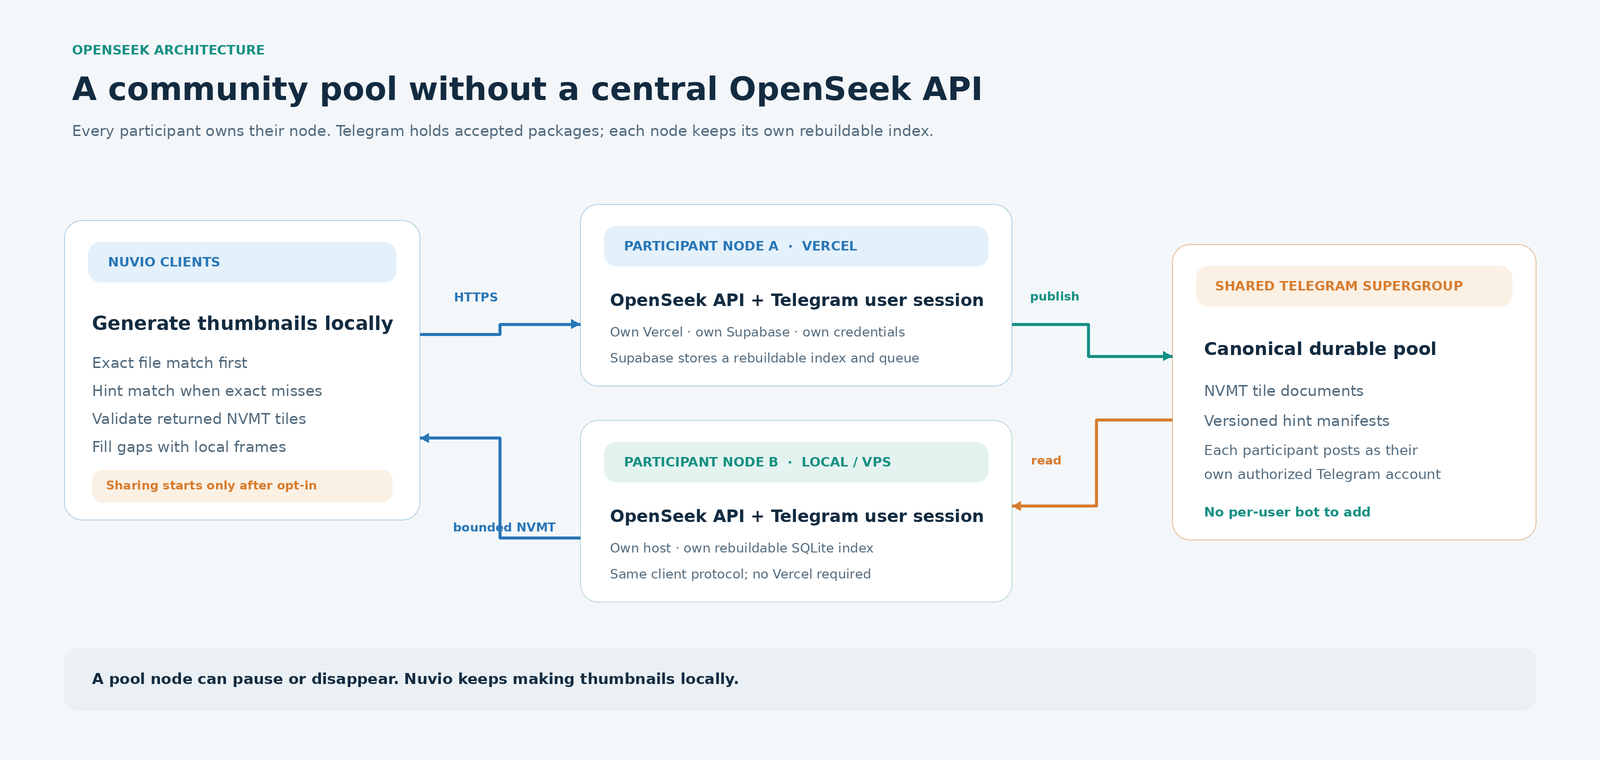
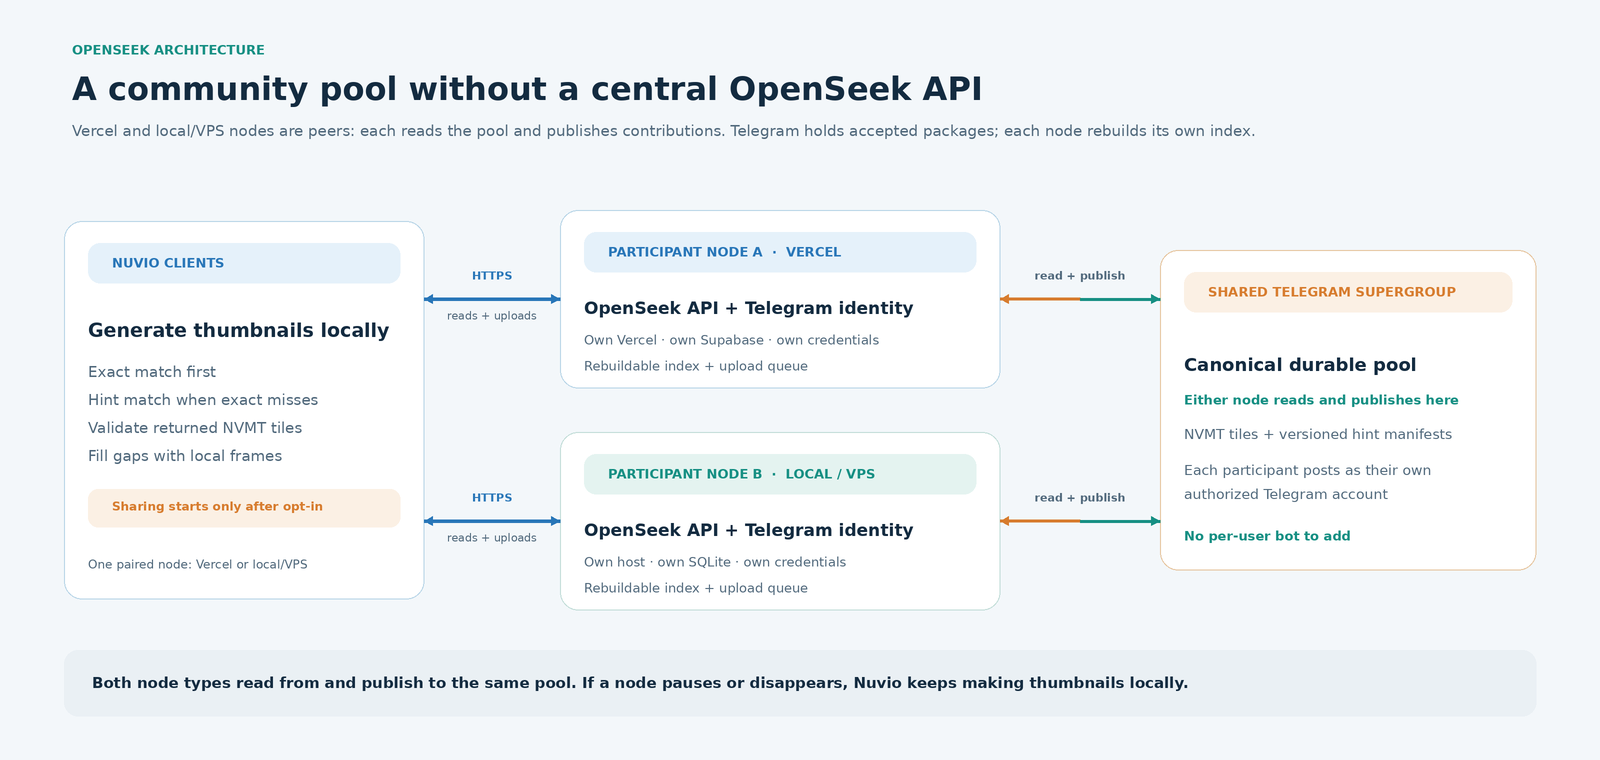
docs: show both pool node types reading and publishing

diff --git a/docs/images/generate_pool_diagrams.py b/docs/images/generate_pool_diagrams.py
@@ -53,6 +53,11 @@ def text(d: ImageDraw.ImageDraw, xy, value: str, size=15, fill=INK, bold=False):
     d.text((xy[0] * S, xy[1] * S), value, font=font(size, bold), fill=fill)
 
 
+def centered_text(d: ImageDraw.ImageDraw, cx, y, value: str, size=12, fill=MUTED, bold=False):
+    f = font(size, bold)
+    d.text((cx * S - d.textlength(value, font=f) / 2, y * S), value, font=f, fill=fill)
+
+
 def line(d: ImageDraw.ImageDraw, points, color=LINE, width=3, arrow=True):
     scaled = [(int(x * S), int(y * S)) for x, y in points]
     d.line(scaled, fill=color, width=width * S, joint="curve")
@@ -75,57 +80,65 @@ def save(image: Image.Image, name: str):
 def architecture():
     image, d = canvas(
         1600, 760, "OpenSeek architecture", "A community pool without a central OpenSeek API",
-        "Every participant owns their node. Telegram holds accepted packages; each node keeps its own rebuildable index.")
+        "Vercel and local/VPS nodes are peers: each reads the pool and publishes contributions. "
+        "Telegram holds accepted packages; each node rebuilds its own index.")
 
     # Nuvio clients
-    rounded(d, (64, 220, 420, 520), fill=WHITE, outline="#B8D5E7")
-    rounded(d, (88, 242, 396, 282), fill=PALE_BLUE, outline=PALE_BLUE, radius=12)
-    text(d, (108, 254), "NUVIO CLIENTS", 13, BLUE, True)
-    text(d, (92, 312), "Generate thumbnails locally", 19, INK, True)
-    text(d, (92, 354), "Exact file match first", 15, MUTED)
-    text(d, (92, 382), "Hint match when exact misses", 15, MUTED)
-    text(d, (92, 410), "Validate returned NVMT tiles", 15, MUTED)
-    text(d, (92, 438), "Fill gaps with local frames", 15, MUTED)
-    rounded(d, (92, 470, 392, 502), fill=PALE_ORANGE, outline=PALE_ORANGE, radius=10)
-    text(d, (106, 478), "Sharing starts only after opt-in", 12, ORANGE, True)
+    rounded(d, (64, 221, 424, 599), fill=WHITE, outline="#B8D5E7")
+    rounded(d, (88, 243, 400, 283), fill=PALE_BLUE, outline=PALE_BLUE, radius=12)
+    text(d, (112, 255), "NUVIO CLIENTS", 13, BLUE, True)
+    text(d, (88, 319), "Generate thumbnails locally", 19, INK, True)
+    text(d, (88, 363), "Exact match first", 15, MUTED)
+    text(d, (88, 391), "Hint match when exact misses", 15, MUTED)
+    text(d, (88, 419), "Validate returned NVMT tiles", 15, MUTED)
+    text(d, (88, 447), "Fill gaps with local frames", 15, MUTED)
+    rounded(d, (88, 489, 400, 527), fill=PALE_ORANGE, outline=PALE_ORANGE, radius=10)
+    text(d, (112, 499), "Sharing starts only after opt-in", 12, ORANGE, True)
+    text(d, (88, 557), "One paired node: Vercel or local/VPS", 12, MUTED)
 
-    # Participant-owned nodes
-    rounded(d, (580, 204, 1012, 386), fill=WHITE, outline="#B8D5E7")
-    rounded(d, (604, 226, 988, 266), fill=PALE_BLUE, outline=PALE_BLUE, radius=12)
-    text(d, (624, 238), "PARTICIPANT NODE A  ·  VERCEL", 13, BLUE, True)
-    text(d, (610, 290), "OpenSeek API + Telegram user session", 17, INK, True)
-    text(d, (610, 324), "Own Vercel · own Supabase · own credentials", 13, MUTED)
-    text(d, (610, 350), "Supabase stores a rebuildable index and queue", 13, MUTED)
+    # Participant-owned nodes: identical capabilities, different index storage
+    rounded(d, (560, 210, 1000, 388), fill=WHITE, outline="#B8D5E7")
+    rounded(d, (584, 232, 976, 272), fill=PALE_BLUE, outline=PALE_BLUE, radius=12)
+    text(d, (608, 244), "PARTICIPANT NODE A  ·  VERCEL", 13, BLUE, True)
+    text(d, (584, 298), "OpenSeek API + Telegram identity", 17, INK, True)
+    text(d, (584, 332), "Own Vercel · own Supabase · own credentials", 13, MUTED)
+    text(d, (584, 358), "Rebuildable index + upload queue", 13, MUTED)
 
-    rounded(d, (580, 420, 1012, 602), fill=WHITE, outline="#C2DDD8")
-    rounded(d, (604, 442, 988, 482), fill=PALE_TEAL, outline=PALE_TEAL, radius=12)
-    text(d, (624, 454), "PARTICIPANT NODE B  ·  LOCAL / VPS", 13, TEAL, True)
-    text(d, (610, 506), "OpenSeek API + Telegram user session", 17, INK, True)
-    text(d, (610, 540), "Own host · own rebuildable SQLite index", 13, MUTED)
-    text(d, (610, 566), "Same client protocol; no Vercel required", 13, MUTED)
+    rounded(d, (560, 432, 1000, 610), fill=WHITE, outline="#C2DDD8")
+    rounded(d, (584, 454, 976, 494), fill=PALE_TEAL, outline=PALE_TEAL, radius=12)
+    text(d, (608, 466), "PARTICIPANT NODE B  ·  LOCAL / VPS", 13, TEAL, True)
+    text(d, (584, 520), "OpenSeek API + Telegram identity", 17, INK, True)
+    text(d, (584, 554), "Own host · own SQLite · own credentials", 13, MUTED)
+    text(d, (584, 580), "Rebuildable index + upload queue", 13, MUTED)
 
     # Telegram pool
-    rounded(d, (1172, 244, 1536, 540), fill=WHITE, outline="#E6C59F")
-    rounded(d, (1196, 266, 1512, 306), fill=PALE_ORANGE, outline=PALE_ORANGE, radius=12)
-    text(d, (1215, 278), "SHARED TELEGRAM SUPERGROUP", 13, ORANGE, True)
-    text(d, (1204, 338), "Canonical durable pool", 18, INK, True)
-    text(d, (1204, 382), "NVMT tile documents", 15, MUTED)
-    text(d, (1204, 412), "Versioned hint manifests", 15, MUTED)
-    text(d, (1204, 442), "Each participant posts as their", 14, MUTED)
-    text(d, (1204, 466), "own authorized Telegram account", 14, MUTED)
-    text(d, (1204, 504), "No per-user bot to add", 13, TEAL, True)
+    rounded(d, (1160, 250, 1536, 570), fill=WHITE, outline="#E6C59F")
+    rounded(d, (1184, 272, 1512, 312), fill=PALE_ORANGE, outline=PALE_ORANGE, radius=12)
+    text(d, (1208, 284), "SHARED TELEGRAM SUPERGROUP", 13, ORANGE, True)
+    text(d, (1184, 354), "Canonical durable pool", 18, INK, True)
+    text(d, (1184, 392), "Either node reads and publishes here", 13, TEAL, True)
+    text(d, (1184, 426), "NVMT tiles + versioned hint manifests", 14, MUTED)
+    text(d, (1184, 462), "Each participant posts as their own", 14, MUTED)
+    text(d, (1184, 486), "authorized Telegram account", 14, MUTED)
+    text(d, (1184, 528), "No per-user bot to add", 13, TEAL, True)
 
-    line(d, [(420, 334), (500, 334), (500, 324), (580, 324)], BLUE)
-    line(d, [(1012, 324), (1088, 324), (1088, 356), (1172, 356)], TEAL)
-    line(d, [(1172, 420), (1096, 420), (1096, 506), (1012, 506)], ORANGE)
-    line(d, [(580, 538), (500, 538), (500, 438), (420, 438)], BLUE)
-    text(d, (454, 290), "HTTPS", 12, BLUE, True)
-    text(d, (1030, 289), "publish", 12, TEAL, True)
-    text(d, (1031, 453), "read", 12, ORANGE, True)
-    text(d, (453, 520), "bounded NVMT", 12, BLUE, True)
+    # Nuvio <-> node: paired pool traffic in both directions
+    for y in (299, 521):
+        line(d, [(424, y), (560, y)], BLUE)
+        line(d, [(560, y), (424, y)], BLUE)
+        centered_text(d, 492, y - 30, "HTTPS", 11, BLUE, True)
+        centered_text(d, 492, y + 10, "reads + uploads", 11, MUTED)
 
-    rounded(d, (64, 648, 1536, 710), fill="#EAF0F4", outline="#EAF0F4", radius=14)
-    text(d, (92, 670), "A pool node can pause or disappear. Nuvio keeps making thumbnails locally.", 15, INK, True)
+    # Node <-> Telegram: every node both reads (orange) and publishes (teal)
+    for y in (299, 521):
+        line(d, [(1080, y), (1000, y)], ORANGE)
+        line(d, [(1080, y), (1160, y)], TEAL)
+        centered_text(d, 1080, y - 30, "read + publish", 11, MUTED, True)
+
+    rounded(d, (64, 650, 1536, 716), fill="#EAF0F4", outline="#EAF0F4", radius=14)
+    text(d, (92, 674), "Both node types read from and publish to the same pool. "
+                       "If a node pauses or disappears, Nuvio keeps making thumbnails locally.",
+         15, INK, True)
     save(image, "pool-architecture.png")
 
 

diff --git a/README.md b/README.md
@@ -14,7 +14,9 @@ An opted-in contribution contains generated JPEG tiles, their timing and NVMT pr
 
 ## How the pool fits together
 
-![OpenSeek pool architecture: Nuvio clients use participant owned nodes and a shared Telegram supergroup](docs/images/pool-architecture.png)
+![OpenSeek pool architecture: a Nuvio client paired with a Vercel or local/VPS node; both node types read from and publish to a shared Telegram supergroup](docs/images/pool-architecture.png)
+
+A Vercel node and a local/VPS node are peers, not separate roles. Either deployment can serve exact and hint lookups and publish accepted contributions. The main difference is where the rebuildable index lives (Supabase for Vercel, SQLite for local/VPS); Vercel also uses temporary staging for large uploads.
 
 Nuvio generates thumbnails locally while playback continues. It can ask a pool node for an **exact match** using the media fingerprint and NVMT profile. If no exact package is available, it can try a **hint-ranked candidate** using allowed catalog and file hints. Hint matches are approximate and use a timing map.
 
